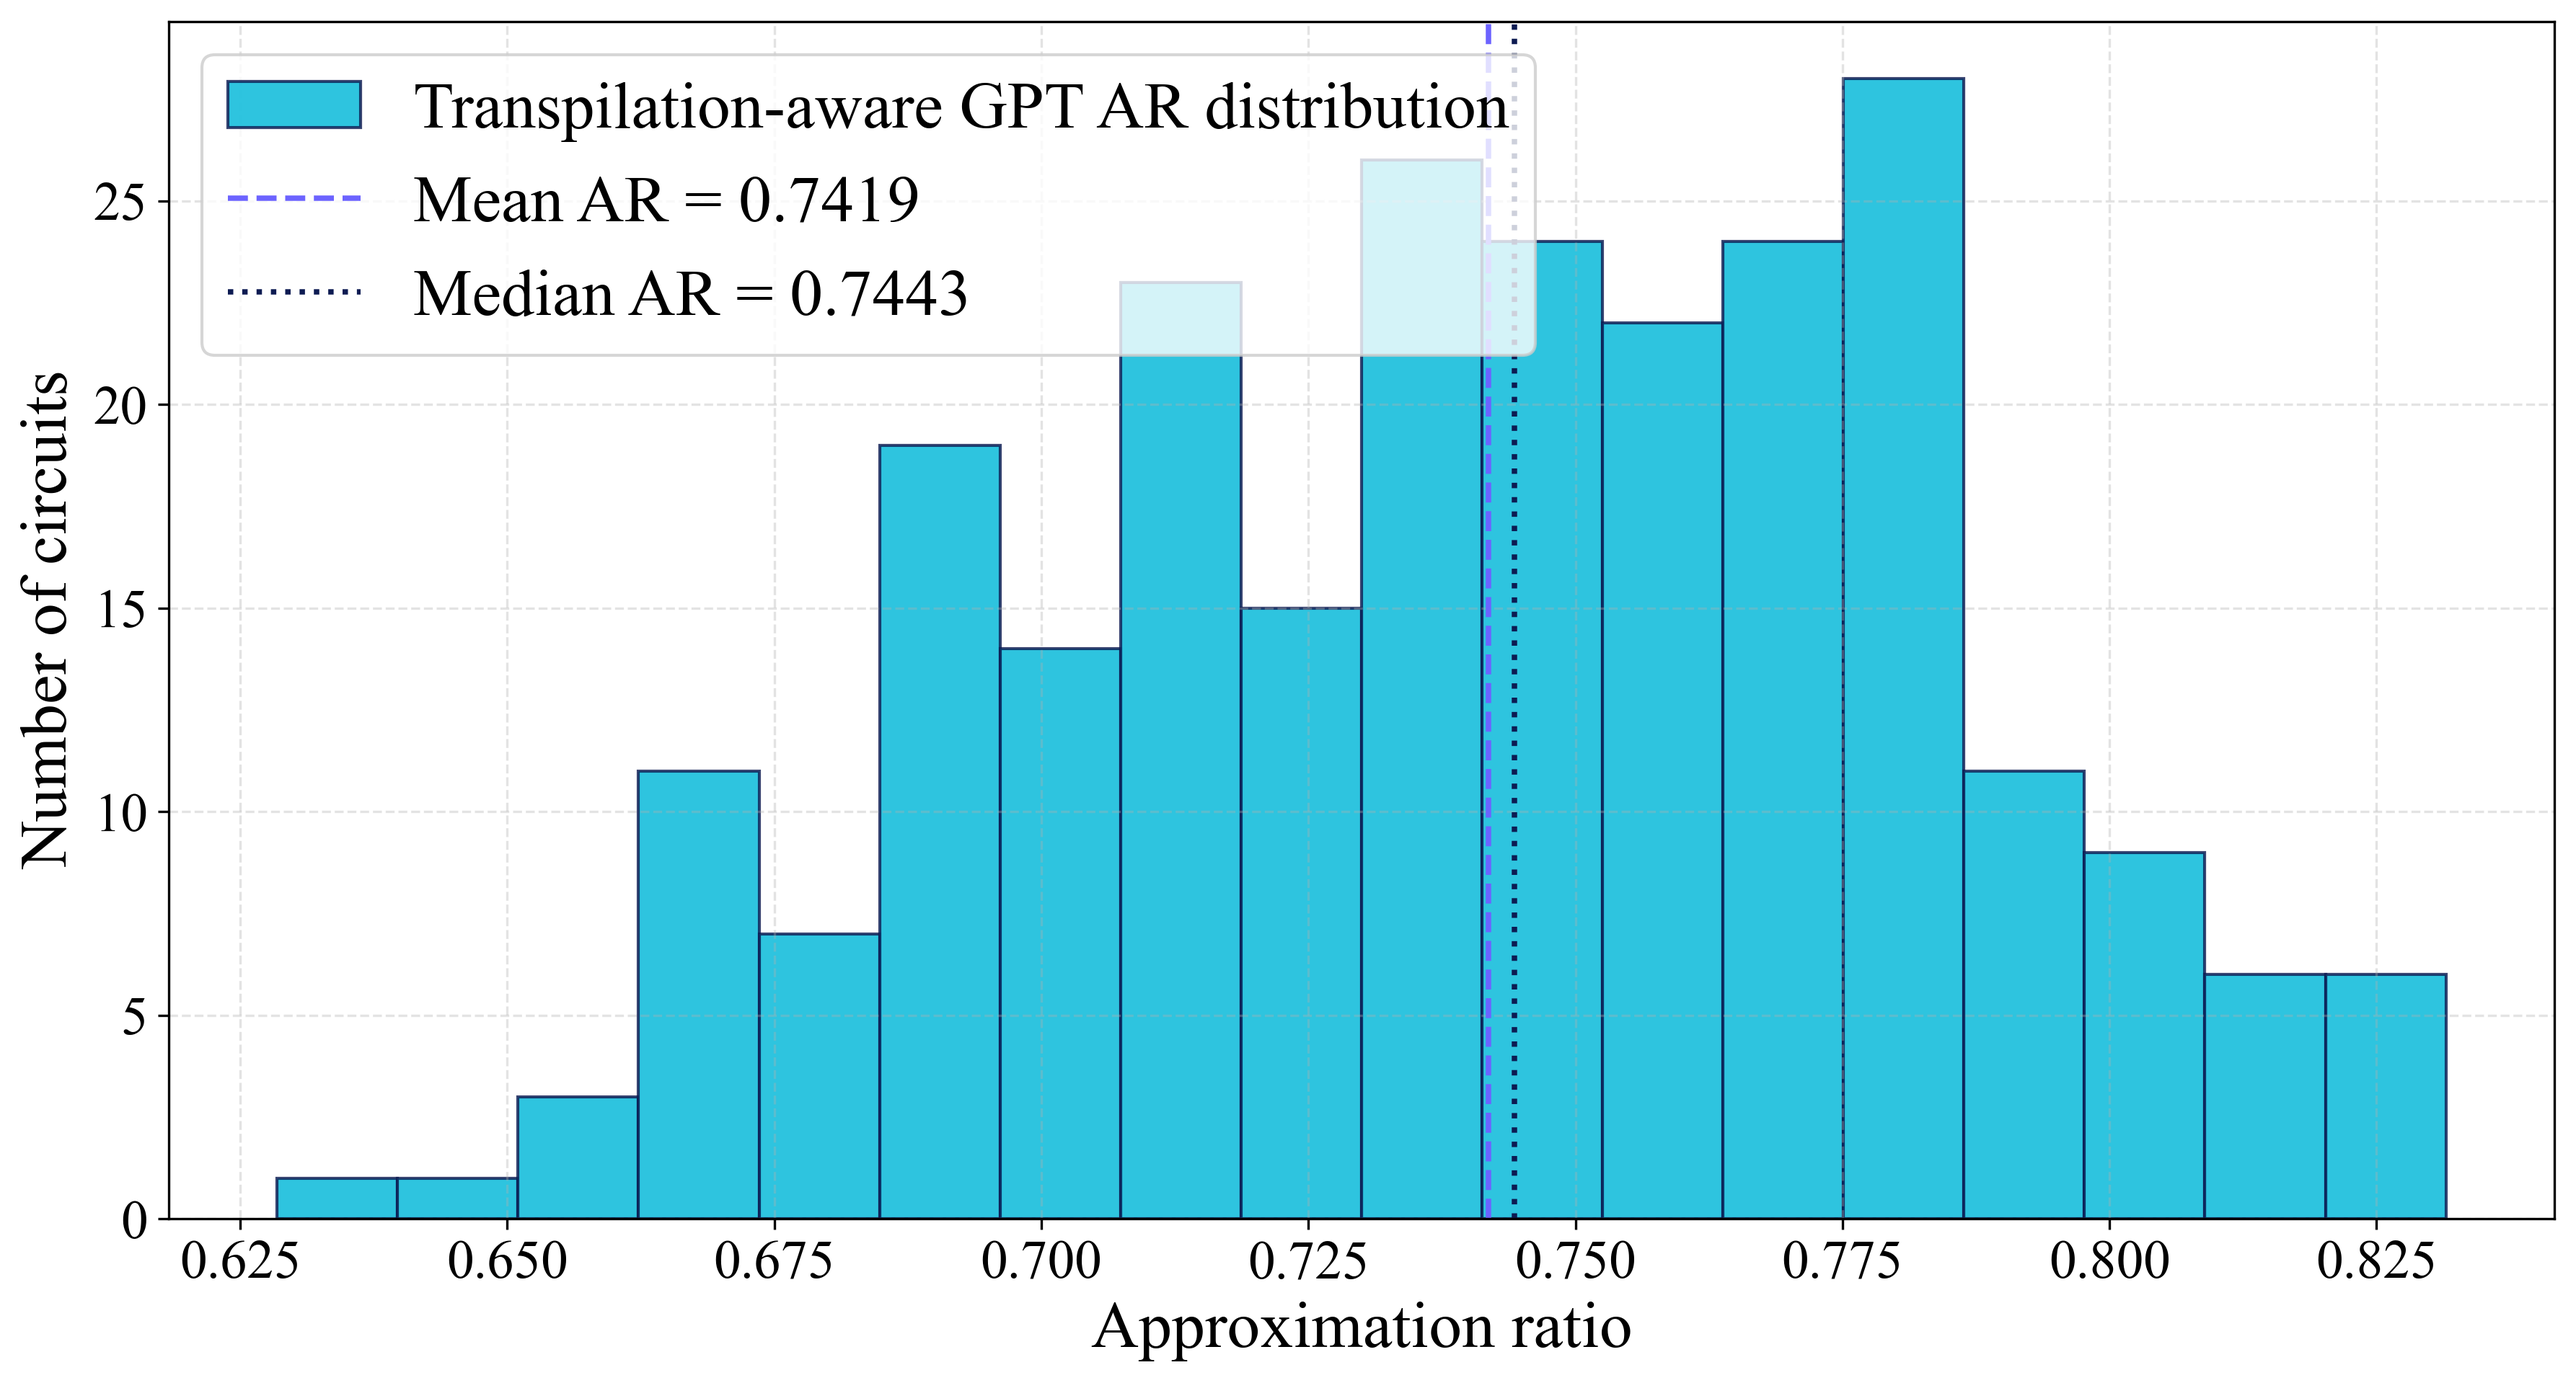
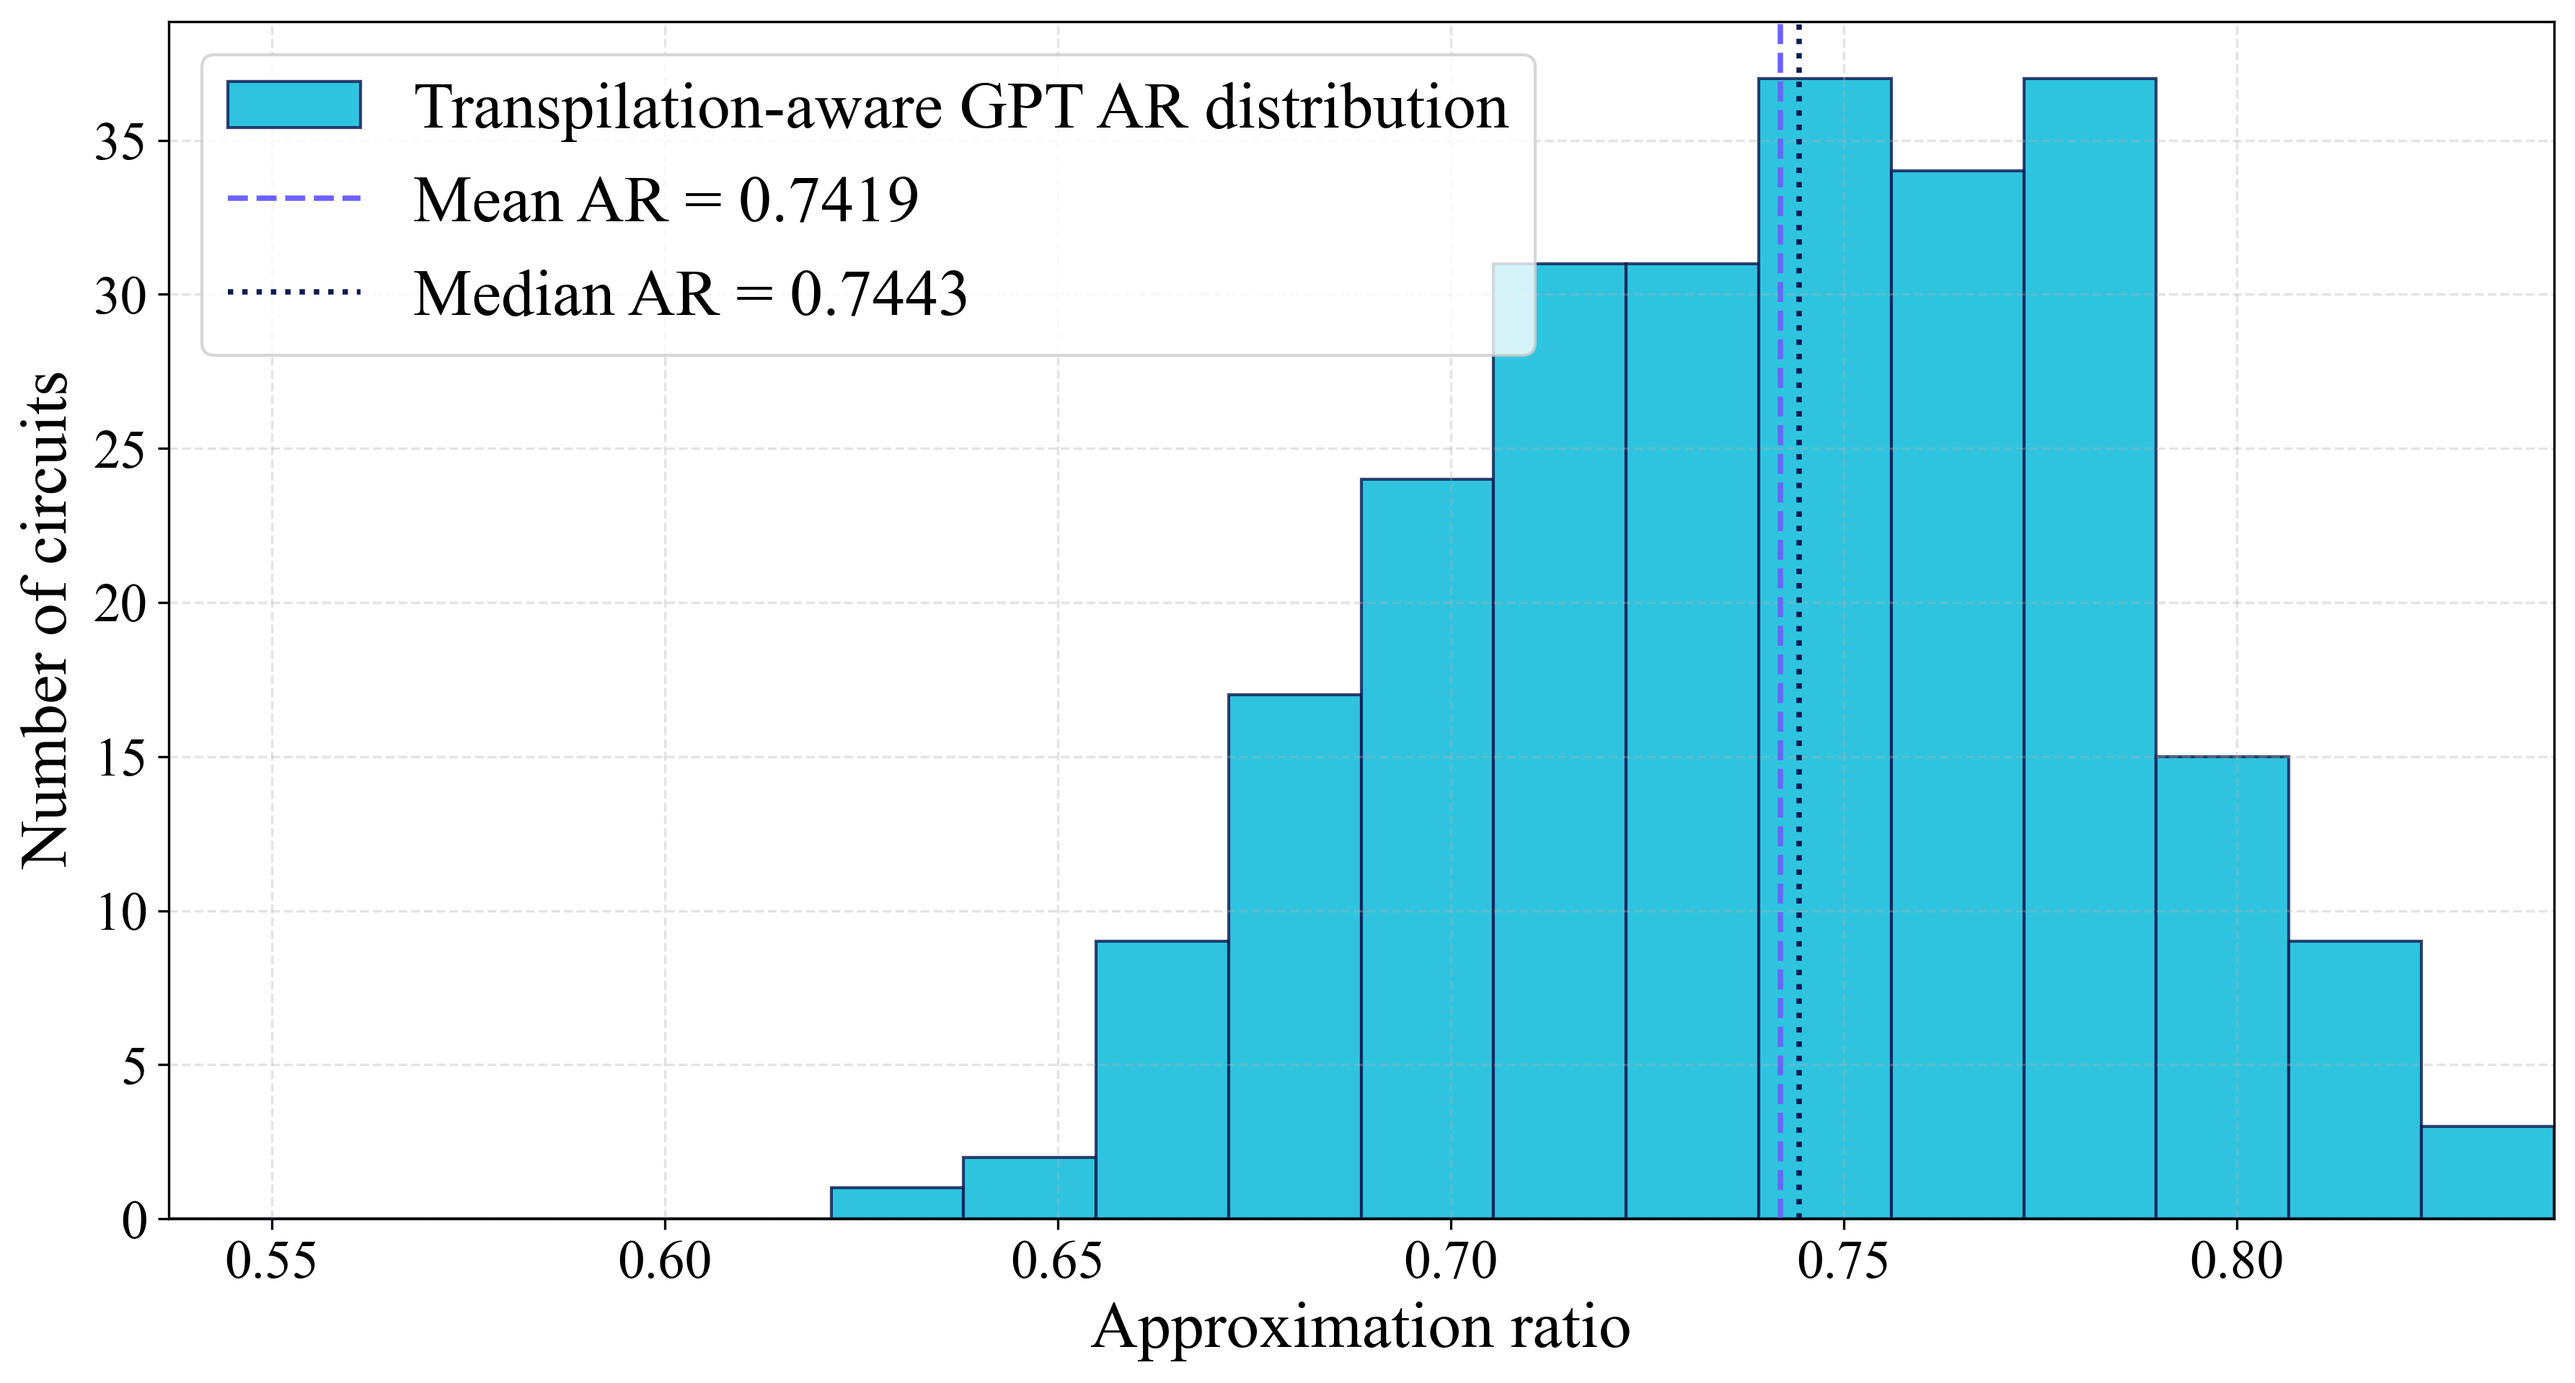
- changed plots to same scale

diff --git a/QAOA-GPT Testing/IBM_Hardware_Trans/plot_trans_accuracy_variants.py b/QAOA-GPT Testing/IBM_Hardware_Trans/plot_trans_accuracy_variants.py
@@ -135,7 +135,7 @@ def make_plot_sorted(approx_ratios, output_path):
     plt.close(fig)
 
 
-def make_histogram(approx_ratios, output_path, distribution_label, color=POINT_COLOR):
+def make_histogram(approx_ratios, output_path, distribution_label, color=POINT_COLOR, x_limits=None):
     mean_ar = float(np.mean(approx_ratios))
     median_ar = float(np.median(approx_ratios))
 
@@ -143,6 +143,7 @@ def make_histogram(approx_ratios, output_path, distribution_label, color=POINT_C
     ax.hist(
         approx_ratios,
         bins=18,
+        range=x_limits,
         color=color,
         edgecolor=ACCENT_COLOR,
         alpha=0.82,
@@ -168,6 +169,8 @@ def make_histogram(approx_ratios, output_path, distribution_label, color=POINT_C
     ax.grid(True, linestyle="--", alpha=0.35)
     ax.tick_params(axis="both", labelsize=TICK_FONT_SIZE)
     ax.legend(frameon=True, fontsize=LEGEND_FONT_SIZE)
+    if x_limits is not None:
+        ax.set_xlim(*x_limits)
 
     fig.tight_layout()
     fig.savefig(output_path, dpi=300, bbox_inches="tight")
@@ -226,6 +229,10 @@ def make_boxstrip_plot(approx_ratios, output_path):
 def main():
     approx_ratios = load_approx_ratios(INPUT_JSON, "trans")
     approx_ratios_og = load_approx_ratios(INPUT_JSON, "old")
+    shared_hist_x_limits = (
+        float(min(np.min(approx_ratios), np.min(approx_ratios_og))),
+        float(max(np.max(approx_ratios), np.max(approx_ratios_og))),
+    )
 
     make_plot_by_index(approx_ratios, OUTPUT_PLOT_INDEX)
     make_plot_sorted(approx_ratios, OUTPUT_PLOT_SORTED)
@@ -234,12 +241,14 @@ def main():
         OUTPUT_PLOT_HIST,
         "Transpilation-aware GPT AR distribution",
         color=HIST_TRANS_COLOR,
+        x_limits=shared_hist_x_limits,
     )
     make_histogram(
         approx_ratios_og,
         OUTPUT_PLOT_HIST_OG,
         "Unconstrained GPT AR distribution",
         color=HIST_OG_COLOR,
+        x_limits=shared_hist_x_limits,
     )
     make_boxstrip_plot(approx_ratios, OUTPUT_PLOT_BOX)
 

diff --git a/QAOA-GPT Testing/circuit_test_trans.py b/QAOA-GPT Testing/circuit_test_trans.py
@@ -222,4 +222,4 @@ def test_all_circuits(test_file):
 
 
 if __name__ == "__main__":
-    test_all_circuits("IBM_Hardware_Trans/generated_circuits_trans_optimal_50.txt")
+    test_all_circuits("IBM_Hardware_Trans/generated_circuits_trans_250.txt")
